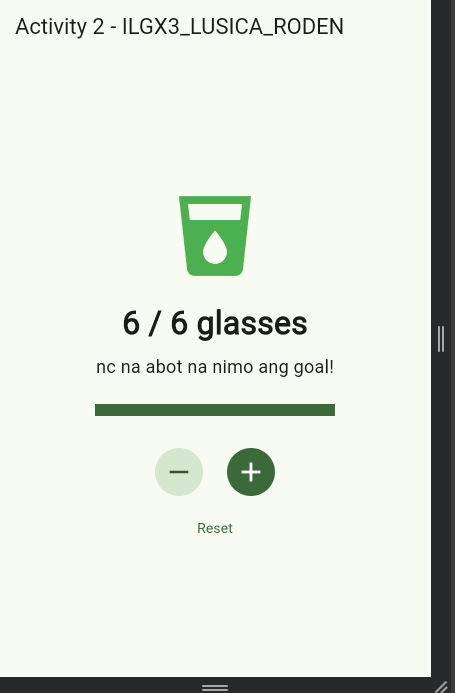
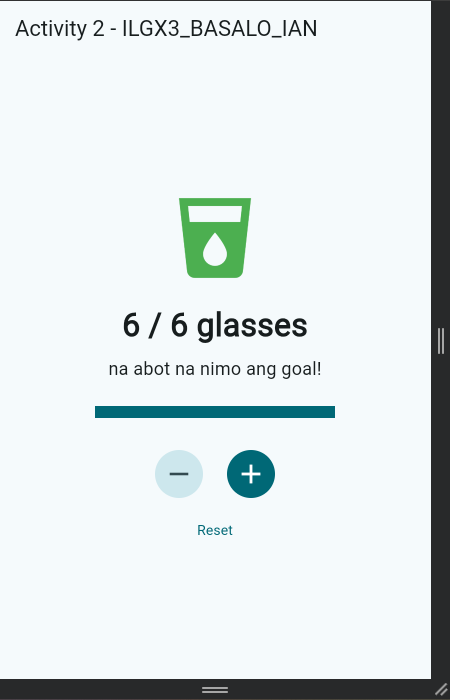
Lab: Flutter widgets, layouts and UI components

diff --git a/lib/activity1_profile_card.dart b/lib/activity1_profile_card.dart
@@ -41,7 +41,7 @@ class ProfileCard extends StatelessWidget {
  ),
  const SizedBox(height: 16),
  const Text(
- 'RODEN F. LUSICA', // <-- change to your full name
+ 'IAN S. BASALO', // <-- change to your full name
  style: TextStyle(fontSize: 24, fontWeight: FontWeight.bold),
  ),
  const SizedBox(height: 4),
@@ -55,12 +55,12 @@ class ProfileCard extends StatelessWidget {
  children: [
  Icon(Icons.email, size: 20),
  SizedBox(width: 8),
- Text('roden.lusica@csucc.edu.ph'), // <-- change to your email
+ Text('ian.basalo@csucc.edu.ph'), // <-- change to your email
  ],
  ),
  Icon(Icons.email, size: 20),
  SizedBox(width: 8),
- Text('095412939466'), // <-- change to your email
+ Text('09451392404'), // <-- change to your email
  ],
  ),
  ),

diff --git a/lib/student.dart b/lib/student.dart
@@ -2,8 +2,8 @@ import 'package:flutter/material.dart';
 // ---------------------------------------------------------------
 // Change these two lines to your own details before you start.
 // ---------------------------------------------------------------
-const String studentName = 'ILGX3_LUSICA_RODEN'; // e.g. 'IT3A_DELACRUZ_JUAN'
-const String studentId = '241-00581'; // your student ID
+const String studentName = 'ILGX3_BASALO_IAN'; // e.g. 'IT3A_DELACRUZ_JUAN'
+const String studentId = '241-01143'; // your student ID
 // Your personal theme color is picked from the last two digits of
 // your student ID, so every student's app looks a little different.
 const List<String> _colorNames = [

diff --git a/lib/activity2_water_tracker.dart b/lib/activity2_water_tracker.dart
@@ -69,7 +69,7 @@ class _WaterTrackerPageState extends State<WaterTrackerPage> {
  ),
  const SizedBox(height: 8),
  Text(
- goalReached ? 'nc na abot na nimo ang goal!' : 'Keep drinking water!',
+ goalReached ? 'na abot na nimo ang goal!' : 'inom tubig!!!!',
  style: const TextStyle(fontSize: 18),
  ),
  const SizedBox(height: 24),

diff --git a/lib/main.dart b/lib/main.dart
@@ -1,4 +1,4 @@
 // To run a different activity, change the file name in the import below,
 // save, then press F5 (or click "Run" above main() in any activity file).
-import 'activity2_water_tracker.dart' as activity;
+import 'activity5_theme_components.dart' as activity;
 void main() => activity.main();

diff --git a/lib/activity3_weather_layout.dart b/lib/activity3_weather_layout.dart
@@ -45,7 +45,7 @@ class WeatherPage extends StatelessWidget {
  crossAxisAlignment: CrossAxisAlignment.start,
  children: [
  Text(
- 'CABADBARAN City', // <-- change to your hometown
+ 'MAGALLANES', // <-- change to your hometown
  style: TextStyle(
  fontSize: 24,
  fontWeight: FontWeight.bold,

diff --git a/answer.md b/answer.md
@@ -1,54 +1,48 @@
 GITHUB REPOSITORY LINK: 
-https://github.com/rodenlusica-lab/flutter_basics_lab.git
+https://github.com/ianbasalo-glitch/flutter_basics_lab.git
 
 activity2
-build() called: 0 glasses
-build() called: 1 glasses
-build() called: 2 glasses
-build() called: 3 glasses
-build() called: 4 glasses
-build() called: 5 glasses
-build() called: 6 glasses
+
 
 Experiment: inside _addGlass, move _glasses++ outside of setState and tap +. Write down what
 happens in your answers file, then put it back.
-Answer: When I moved _glasses++ outside setState() and tapped the + button, the water count changed in the variable, but the user interface did not update immediately. This happened because Flutter was not notified to rebuild the widget. After putting _glasses++ back inside setState(), the water count and progress indicator updated correctly.
+Answer: After moving _glasses++ outside setState() and pressing the plus button, the displayed water count did not refresh as expected. Flutter was not informed that the state had changed, so it did not automatically rebuild the interface. When I returned the increment operation inside setState(), the counter and progress indicator updated properly again.
 
 activity3
 
 Remove Expanded from one StatBox and describe what happens in your answers file, then put it back.
-Answer: When I removed Expanded from one StatBox, the layout became uneven because the stat boxes no longer shared the available space equally. Depending on the available space, it could also cause a layout overflow. Expanded helps the widgets occupy their allocated space in the Row. After observing the result, I put Expanded back to restore the layout.
+Answer: When I removed Expanded from one of the StatBox widgets, the layout no longer distributed the available space in the same way. The boxes could appear uneven, and an overflow might occur depending on the layout constraints. I restored Expanded afterward so the stat boxes could use the available space correctly.
 
 activity5 
 
 Change one setting in buildTheme(), for example the button corner radius from 8 to 20, and describe
 what changed in your answers file.
 
-Answer: I changed the button corner radius in buildTheme() from 8 to 20. As a result, the Elevated button's corners became more rounded. This shows how changing a theme setting can customize the appearance of the app's buttons.
+Answer: I modified the Elevated button's corner radius in buildTheme() from 8 to 20. This made the button corners more curved than before. It demonstrates that adjusting the theme configuration can change the appearance of themed widgets.
 
 Review questions
 
 1. What is the difference between a StatelessWidget and a StatefulWidget? Give one example of each
 from this lab.
-answer: A StatelessWidget does not manage changing state, such as the profile card in Activity 1. A StatefulWidget can update its interface when its state changes, such as the Water Tracker in Activity 2.
+answer: A StatelessWidget displays content without maintaining mutable state of its own, like the profile card in Activity 1. A StatefulWidget can respond to state changes and refresh its display, as shown by the Water Tracker in Activity 2.
 2. Why is a StatefulWidget written as two classes? What does each class do?
-answer: A StatefulWidget uses two classes because they have different responsibilities. The widget class defines the widget, while the State class stores changing data and updates the interface using setState().
+answer:Flutter separates a stateful widget into a widget class and a State class. The widget class describes the component, while the State class contains values that may change and the logic used to rebuild the interface.
 3. In Activity 2, what happened when you changed _glasses outside setState()? Why?
-answer: When I moved _glasses++ outside setState() and tapped the + button, the interface did not update immediately. This happened because Flutter was not notified to rebuild the widget.
+answer: WThe water count variable could change after pressing the plus button, but the screen might continue showing the previous value. This occurred because changing the variable alone does not notify Flutter to rebuild the widget.
 4. Looking at the Debug Console in Activity 2, when is build() called?
-answer: The build() method is called when Flutter creates the interface and whenever the widget needs to rebuild, such as after calling setState() to update the water count.
+answer: TFlutter calls build() when the widget is first displayed and when a rebuild is needed. For example, calling setState() after changing the water count causes Flutter to rebuild the affected interface.
 5. Explain the main axis and the cross axis of a Row and of a Column.
-answer: In a Row, the main axis is horizontal and the cross axis is vertical. In a Column, the main axis is vertical and the cross axis is horizontal.
+answer: A Row arranges its children horizontally along the main axis, with the cross axis running vertically. A Column arranges its children vertically along the main axis, while its cross axis runs horizontally.
 6. In Activity 3, what happened when you removed Expanded from a StatBox? What does Expanded do?
-answer: When I removed Expanded, the stat boxes no longer shared the available space equally, and the layout could become uneven or overflow. Expanded allows a widget to occupy its allocated share of the available space.
+answer: Without Expanded, one stat box no longer participated in the same flexible space distribution as the others. Depending on the constraints, the layout could become unbalanced or produce an overflow. Expanded allows a child to fill its assigned portion of the available space.
 7. Why do we use GridView.builder for the menu instead of a Column with many children?
-answer: We use GridView.builder because it displays menu items in a grid and can build items as needed. It is more suitable for a menu with multiple items than a Column.
+answer: GridView.builder presents menu items in rows and columns, making the menu easier to organize visually. It also creates items as needed, which can be more efficient for larger lists than placing every item inside a single Column.
 8. How do Stack and Positioned create the Best seller badge in Activity 4?
-answer: Stack allows widgets to overlap, while Positioned controls the badge's location. Together, they place the Best seller badge over the menu item.
+answer: Stack places multiple widgets in the same visual area, allowing one widget to appear over another. Positioned specifies the badge's location within that stack, so the Best seller label can appear on top of the menu item.
 9. What is the difference between customizing with ThemeData and with a style on one widget? Give
 one example of each from Activity 5.
-answer: ThemeData customizes the appearance of widgets throughout the app. For example, Activity 5 uses ThemeData to configure the app theme. A widget-specific style customizes an individual widget, such as changing the Elevated button's corner radius to 20.
+answer: ThemeData provides shared appearance settings that can affect several widgets throughout the application. For example, Activity 5 configures the overall theme and button styling. A style applied directly to a widget changes that particular widget's appearance rather than defining a shared theme setting.
 10. When you flip the dark-mode switch in Activity 5, which widget holds the state, and how does the
 change reach MaterialApp.
-answer: The _ThemeDemoAppState class holds the _isDark variable. When the switch changes, _setDark() calls setState(), rebuilding the app and updating MaterialApp's themeMode to use the light or dark theme.
+answer:The _ThemeDemoAppState object stores the _isDark value. When the switch is toggled, _setDark() updates that value through setState(). Flutter rebuilds the app, and MaterialApp receives the updated themeMode, switching between the light and dark themes.
 
